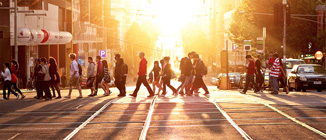
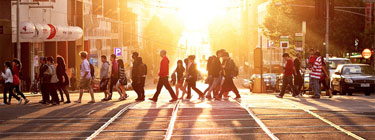
Version 2.4.7
Optimize Banner Image

diff --git a/content/css/default.css b/content/css/default.css
@@ -1602,6 +1602,12 @@ img {display:block;max-width:100%;}
 
     .container {max-width:300px;}
 
+    #banner_wrapper
+    {
+        height:14rem;
+        background-image:url(../image/bg_banner_wrapper.xxs.jpg);
+    }
+
     .block_thumb_logo_container
     {
         width: 3em;
